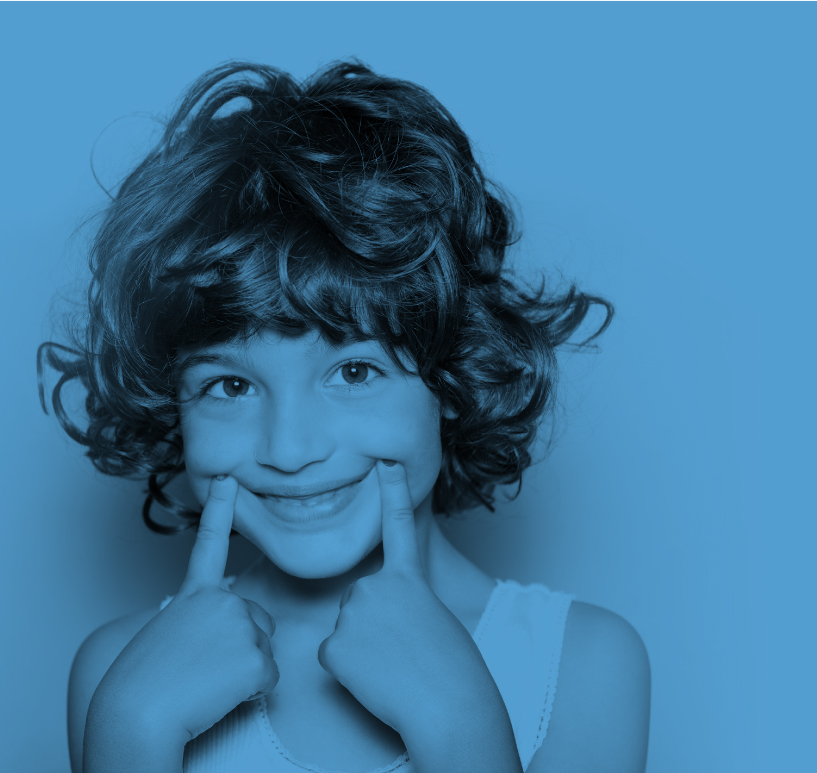
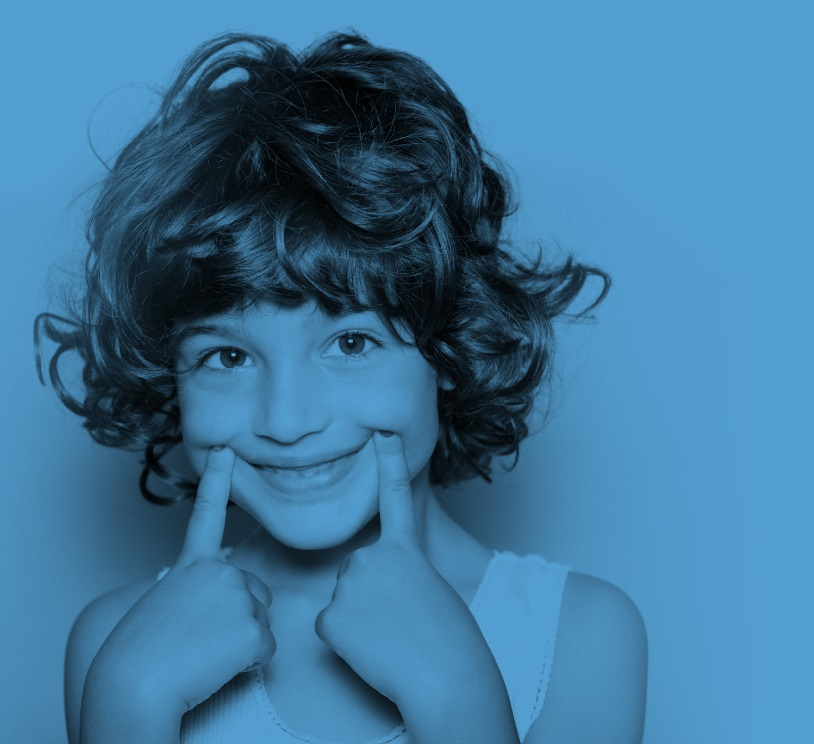
adjustments to error pages

diff --git a/assets/css/main.css b/assets/css/main.css
@@ -1292,7 +1292,7 @@ form, .donation-form {
           padding-bottom: 20px; } }
 
 .get-involved-calc {
-  background: url("/assets/img/smilinggirl.jpg") no-repeat left top;
+  background: url("/assets/img/smilinggirl.jpg") no-repeat left bottom;
   background-color: #539ed0;
   display: flex;
   justify-content: space-between; }
@@ -1301,27 +1301,26 @@ form, .donation-form {
       flex-direction: column;
       align-items: center;
       background-image: none; } }
-
-.headline {
-  padding-top: 30px; }
-  @media only screen and (min-width: 1px) and (max-width: 900px) {
-    .headline {
-      text-align: center; } }
-  @media only screen and (min-width: 515px) and (max-width: 900px) {
-    .headline {
-      padding-top: 40px;
-      padding-left: 10px; } }
-  @media only screen and (min-width: 1px) and (max-width: 515px) {
-    .headline {
-      padding-top: 50px; } }
-  .headline h1 {
-    margin-bottom: 120px;
-    font-size: 14px; }
+  .get-involved-calc .headline {
+    padding-top: 30px; }
+    @media only screen and (min-width: 1px) and (max-width: 900px) {
+      .get-involved-calc .headline {
+        text-align: center; } }
+    @media only screen and (min-width: 515px) and (max-width: 900px) {
+      .get-involved-calc .headline {
+        padding-top: 40px;
+        padding-left: 10px; } }
     @media only screen and (min-width: 1px) and (max-width: 515px) {
-      .headline h1 {
-        margin-bottom: 50px; } }
+      .get-involved-calc .headline {
+        padding-top: 50px; } }
+    .get-involved-calc .headline h1 {
+      margin-bottom: 120px;
+      font-size: 14px; }
+      @media only screen and (min-width: 1px) and (max-width: 515px) {
+        .get-involved-calc .headline h1 {
+          margin-bottom: 50px; } }
   @media only screen and (min-width: 901px) {
-    .headline span {
+    .get-involved-calc span {
       padding: 0px;
       font-size: 60px; } }
 
@@ -1335,5 +1334,56 @@ form, .donation-form {
   .donation-form button {
     width: 100%;
     margin-top: 20px; }
+
+.confirm-screen {
+  padding-top: 150px;
+  padding-bottom: 114px;
+  background: url("/assets/img/thumbup.jpg") no-repeat right center;
+  background-color: #539ed0;
+  color: white; }
+  @media only screen and (min-width: 1px) and (max-width: 515px) {
+    .confirm-screen {
+      background-image: none;
+      padding: 50px;
+      padding: 30px; } }
+  .confirm-screen .headline span {
+    padding-left: 0px; }
+  .confirm-screen .headline p {
+    clear: both; }
+    @media only screen and (min-width: 1px) and (max-width: 900px) {
+      .confirm-screen .headline p {
+        text-align: left; } }
+  .confirm-screen .address-box-container {
+    padding-left: 100px; }
+    @media only screen and (min-width: 515px) and (max-width: 900px) {
+      .confirm-screen .address-box-container {
+        padding-left: 15px; } }
+    @media only screen and (min-width: 1px) and (max-width: 515px) {
+      .confirm-screen .address-box-container {
+        padding-left: 20px;
+        padding-right: 20px; } }
+    .confirm-screen .address-box-container .address-box {
+      border: 1px solid white;
+      padding: 10px 30px;
+      width: 500px; }
+      @media only screen and (min-width: 1px) and (max-width: 515px) {
+        .confirm-screen .address-box-container .address-box {
+          width: 100%; } }
+      .confirm-screen .address-box-container .address-box .address-box-grouping > p:first-of-type {
+        color: black;
+        font-style: italic; }
+      .confirm-screen .address-box-container .address-box .address-box-grouping > p:last-of-type {
+        font-weight: bold; }
+    .confirm-screen .address-box-container > p {
+      color: black; }
+
+.confirm-screen.oops {
+  background: url("/assets/img/thumbdown.jpg") no-repeat right center;
+  background-color: #539ed0;
+  min-height: 650px; }
+  .confirm-screen.oops .headline {
+    max-width: 500px; }
+    .confirm-screen.oops .headline a {
+      color: black; }
 
 /*# sourceMappingURL=main.css.map */

diff --git a/assets/css/_src/views/donations-confirm.scss b/assets/css/_src/views/donations-confirm.scss
@@ -1,0 +1,63 @@
+.confirm-screen {
+  padding-top: 150px;
+  padding-bottom: 114px;
+  background: url('/assets/img/thumbup.jpg') no-repeat right center;
+  background-color: $color-lightblue;
+  color: $color-white;
+  @include breakpoint(phoneonly) {
+    background-image: none;
+    padding: 50px;
+    padding: 30px;
+  }
+  .headline {
+    span {
+      padding-left: 0px;
+    }
+    p {
+      clear: both;
+      @include breakpoint(phonetablet) {
+        text-align: left;
+      }
+    }
+  }
+
+  .address-box-container {
+    padding-left: 100px;
+    @include breakpoint(tabletonly) {
+      padding-left: 15px;
+    }
+    @include breakpoint(phoneonly) {
+      padding-left: 20px;
+      padding-right: 20px;
+    }
+    .address-box {
+      border: 1px solid $color-white;
+      padding: 10px 30px;
+      width: 500px;
+      @include breakpoint(phoneonly) {
+        width: 100%;
+      }
+      .address-box-grouping > p:first-of-type {
+        color: $color-black;
+        font-style: italic;
+      }
+      .address-box-grouping > p:last-of-type {
+        font-weight: bold;
+      }
+    }
+    > p {
+      color: $color-black;
+    }
+  }
+}
+.confirm-screen.oops {
+  background: url('/assets/img/thumbdown.jpg') no-repeat right center;
+  background-color: $color-lightblue;
+  min-height: 650px;
+  .headline {
+    max-width: 500px;
+    a {
+      color: $color-black;
+    }
+  }
+}

diff --git a/assets/css/_src/views/get-involved-calc.scss b/assets/css/_src/views/get-involved-calc.scss
@@ -1,7 +1,7 @@
 @import "../components/calculator";
 
 .get-involved-calc {
-  background: url('/assets/img/smilinggirl.jpg') no-repeat left top;
+  background: url('/assets/img/smilinggirl.jpg') no-repeat left bottom;
   background-color: $color-lightblue;
   display: flex;
   justify-content: space-between;
@@ -10,27 +10,26 @@
     align-items: center;
     background-image: none;
   }
-}
-
-.headline {
-  padding-top: 30px;
-  @include breakpoint(phonetablet) {
-    text-align: center;
-  }
-  @include breakpoint(tabletonly) {
-    padding-top: 40px;
-    padding-left: 10px;
-  }
-  @include breakpoint(phoneonly) {
-    padding-top: 50px;
-  }
-  h1 {
-    margin-bottom: 120px;
-    font-size: 14px;
-    @include breakpoint(phoneonly) {
-      margin-bottom: 50px;
+  .headline {
+    padding-top: 30px;
+    @include breakpoint(phonetablet) {
+      text-align: center;
     }
-  }
+    @include breakpoint(tabletonly) {
+      padding-top: 40px;
+      padding-left: 10px;
+    }
+    @include breakpoint(phoneonly) {
+      padding-top: 50px;
+    }
+    h1 {
+      margin-bottom: 120px;
+      font-size: 14px;
+      @include breakpoint(phoneonly) {
+        margin-bottom: 50px;
+      }
+    }
+}
   span {
     @include breakpoint(desktopbeyond) {
       padding: 0px;

diff --git a/assets/css/_src/main.scss b/assets/css/_src/main.scss
@@ -15,3 +15,4 @@
 @import "views/get-involved";
 @import "views/donations";
 @import "views/get-involved-calc";
+@import "views/donations-confirm";

diff --git a/inc/donations-complete.php b/inc/donations-complete.php
@@ -1,0 +1,28 @@
+<div class="confirm-screen">
+  <div class="headline">
+    <span>Thank You!</span>
+    <p>Your donation was successfully processed.
+      Your confirmation number is 123-456.
+      An email receipt has been sent to: johndoe@gmail.com</p>
+  </div>
+  <div class="address-box-container">
+    <h3>Sending your check</h3>
+    <div class="address-box">
+      <div class="address-box-grouping">
+        <p>Please Make Checks Payable To</p>
+        <p>United Way of Whatcom County</p>
+      </div>
+      <div class="address-box-grouping">
+        <p>Include the following Confirmation # in the check’s memo:</p>
+        <p>ksdkl32-wl</p>
+      </div>
+      <div class="address-box-grouping">
+        <p>Question here</p>
+        <p>United Way of Whatcom County
+          1500 Cornwall Avenue, Suite 203
+          Bellingham, WA 98225</p>
+      </div>
+    </div>
+    <p>These instructions will be emailed to you as well</p>
+  </div>
+</div>

diff --git a/index.php b/index.php
@@ -6,9 +6,11 @@
     <?php
       // include $root_path . '/inc/home.php';
       // include $root_path . '/inc/events.php';
-      // include $root_path . '/inc/get-involved.php';
-       include $root_path . '/inc/donations.php';
+       include $root_path . '/inc/get-involved.php';
+      // include $root_path . '/inc/donations.php';
       // include $root_path . '/inc/get-involved-calc.php';
+      // include $root_path . '/inc/donations-complete.php';
+      // include $root_path . '/inc/oops.php';
     ?>
 <?php
   include $root_path . '/inc/footer.php';

diff --git a/inc/oops.php b/inc/oops.php
@@ -1,0 +1,11 @@
+<div class="confirm-screen oops">
+  <div class="headline">
+    <span>Oops!</span>
+    <p>Something went wrong and your donation would not be processed.
+    Would you like to <a href="#">try again?</a></p>
+
+    <p>You can also contact us for help:
+    360-733-8670
+    Send us an <a href="#">email</a></p>
+  </div>
+</div>
